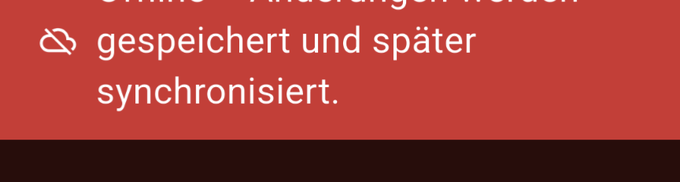
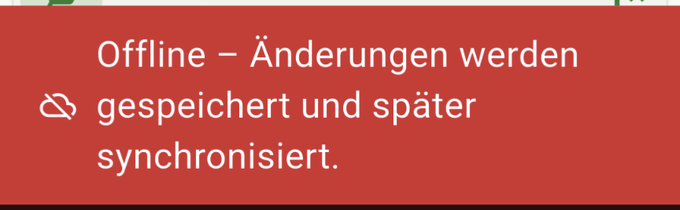
Add files via upload

diff --git a/index.html b/index.html
@@ -105,11 +105,15 @@
   .card p{color:var(--muted); font-size:14.5px; margin:7px 0 0}
 
   /* Keine-Werbung Karte (hervorgehoben, grün) */
-  .card.accent{background:linear-gradient(155deg,var(--green) 0%,var(--green-dark) 100%); border-color:transparent; color:#fff; justify-content:center; text-align:center; padding:34px 24px}
-  .card.accent .big{width:56px;height:56px;border-radius:16px;background:rgba(255,255,255,.16);display:grid;place-items:center;margin:0 auto 16px}
-  .card.accent .big svg{width:28px;height:28px;color:#fff}
-  .card.accent h3{color:#fff; font-size:22px}
-  .card.accent p{color:rgba(255,255,255,.85); font-size:15px; margin-top:9px}
+  .card.accent{background:#fff; border:1.5px solid var(--green); justify-content:center; text-align:center; padding:34px 24px}
+  .card.accent .big{width:56px;height:56px;border-radius:16px;background:var(--mint);display:grid;place-items:center;margin:0 auto 16px}
+  .card.accent .big svg{width:28px;height:28px;color:var(--green)}
+  .card.accent h3{color:var(--green-dark); font-size:22px}
+  .card.accent p{color:var(--muted); font-size:15px; margin-top:9px}
+
+  /* Offline-Banner als Notification-Fläche */
+  .shot-wrap.banner{align-items:center; padding:16px}
+  .shot-wrap.banner img{border-radius:12px; border:1px solid var(--line); box-shadow:0 6px 16px -10px rgba(18,62,23,.4)}
 
   /* Vertrauens-Zeile */
   .trust{display:flex; justify-content:center; gap:14px 30px; flex-wrap:wrap; margin-top:38px; color:var(--muted); font-size:14.5px; font-weight:500}
@@ -139,7 +143,7 @@
 <svg width="0" height="0" style="position:absolute" aria-hidden="true">
   <symbol id="i-cart" viewBox="0 0 24 24" fill="none" stroke="currentColor" stroke-width="2" stroke-linecap="round" stroke-linejoin="round"><circle cx="9" cy="21" r="1"/><circle cx="20" cy="21" r="1"/><path d="M1 1h4l2.68 13.39a2 2 0 0 0 2 1.61h9.72a2 2 0 0 0 2-1.61L23 6H6"/></symbol>
   <symbol id="i-noads" viewBox="0 0 24 24" fill="none" stroke="currentColor" stroke-width="2" stroke-linecap="round" stroke-linejoin="round"><circle cx="12" cy="12" r="9"/><line x1="5.6" y1="5.6" x2="18.4" y2="18.4"/></symbol>
-  <symbol id="i-magic" viewBox="0 0 24 24" fill="none" stroke="currentColor" stroke-width="2" stroke-linecap="round" stroke-linejoin="round"><path d="M15 4V2M15 10V8M9 6H7M23 6h-2M4 20l10-10M12.5 6.5 14 5"/><path d="M9 15l-4 4"/><circle cx="18" cy="16" r="0"/></symbol>
+  <symbol id="i-wand" viewBox="0 0 24 24" fill="none" stroke="currentColor" stroke-width="2" stroke-linecap="round" stroke-linejoin="round"><path d="M5 19 L15 9"/><path d="M18.5 3l.8 2.2 2.2.8-2.2.8-.8 2.2-.8-2.2L15.5 6l2.2-.8z" fill="currentColor" stroke="none"/><path d="M6 4.2v2M5 5.2h2"/><path d="M20.4 11.4v1.6M19.6 12.2h1.6"/></symbol>
   <symbol id="i-palette" viewBox="0 0 24 24" fill="none" stroke="currentColor" stroke-width="2" stroke-linecap="round" stroke-linejoin="round"><circle cx="13.5" cy="6.5" r="1.5"/><circle cx="17.5" cy="10.5" r="1.5"/><circle cx="8.5" cy="7.5" r="1.5"/><circle cx="6.5" cy="12.5" r="1.5"/><path d="M12 2a10 10 0 1 0 0 20 2 2 0 0 0 2-2 2 2 0 0 1 2-2h1a5 5 0 0 0 5-5 10 10 0 0 0-10-9z"/></symbol>
   <symbol id="i-sync" viewBox="0 0 24 24" fill="none" stroke="currentColor" stroke-width="2" stroke-linecap="round" stroke-linejoin="round"><path d="M23 4v6h-6M1 20v-6h6"/><path d="M3.51 9a9 9 0 0 1 14.85-3.36L23 10M1 14l4.64 4.36A9 9 0 0 0 20.49 15"/></symbol>
   <symbol id="i-repeat" viewBox="0 0 24 24" fill="none" stroke="currentColor" stroke-width="2" stroke-linecap="round" stroke-linejoin="round"><path d="M17 1l4 4-4 4"/><path d="M3 11V9a4 4 0 0 1 4-4h14M7 23l-4-4 4-4"/><path d="M21 13v2a4 4 0 0 1-4 4H3"/></symbol>
@@ -151,11 +155,6 @@
 <header>
   <div class="wrap bar">
     <a class="brand" href="index.html"><span class="mk"><svg><use href="#i-cart"/></svg></span>Listikus</a>
-    <nav class="nav">
-      <a href="#features">Funktionen</a>
-      <a href="datenschutz.html">Datenschutz</a>
-      <a href="impressum.html">Impressum</a>
-    </nav>
   </div>
 </header>
 
@@ -174,7 +173,6 @@
               <svg><use href="#i-play"/></svg>
               <span><small>Demnächst bei</small><b>Google Play</b></span>
             </span>
-            <span class="noads"><svg><use href="#i-noads"/></svg> Keine Werbung</span>
           </div>
         </div>
 
@@ -201,7 +199,7 @@
       <div class="card">
         <div class="shot-wrap"><img src="img/crop_erfassen.png" alt="Produkte per Text, Foto oder Sprache erfassen"></div>
         <div class="body">
-          <div class="ic"><svg><use href="#i-magic"/></svg></div>
+          <div class="ic"><svg><use href="#i-wand"/></svg></div>
           <h3>Clever erfassen</h3>
           <p>Tippen, fotografieren oder einfach einsprechen &ndash; die Produkte landen automatisch auf deiner Liste.</p>
         </div>
@@ -226,7 +224,7 @@
 
       <!-- 4: Immer aktuell (Echtzeit + Offline) -->
       <div class="card">
-        <div class="shot-wrap"><img src="img/crop_offline.png" alt="Offline-Hinweis: Änderungen werden gespeichert und später synchronisiert"></div>
+        <div class="shot-wrap banner"><img src="img/crop_offline.png" alt="Offline-Hinweis: Änderungen werden gespeichert und später synchronisiert"></div>
         <div class="body">
           <div class="ic"><svg><use href="#i-sync"/></svg></div>
           <h3>Immer aktuell</h3>